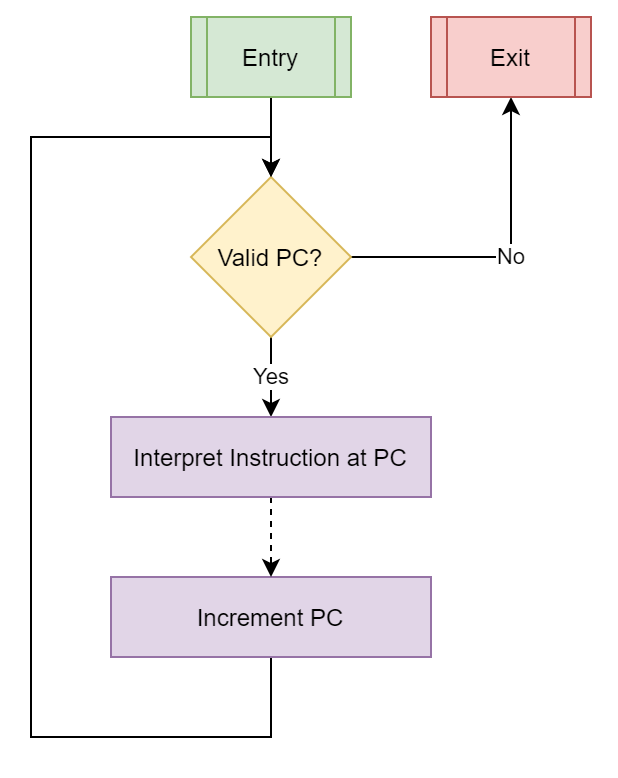
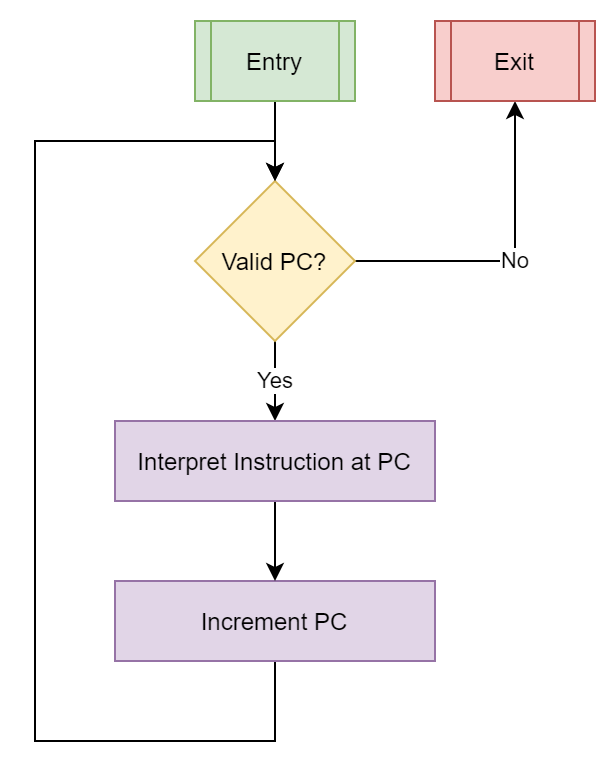
Finished code gen arch

Changed region(s): [[0.0308, 0.0, 0.987, 0.9563], [0.7711, 0.0617, 0.8636, 0.0925], [0.4627, 0.2468, 0.4935, 0.2776]]

diff --git a/sections/implementation/code_generation/architecture.tex b/sections/implementation/code_generation/architecture.tex
@@ -1,3 +1,14 @@
 \subsubsection{Architecture}
 
-\YIComment{Explain different roles of compiler, assembler and allocator}
+The architecture for code generation was split into multiple components to create a compilation pipeline as outlined in \autoref{figure:code-gen-arch}.
+
+\begin{figure}[h]
+    \centering
+    \includegraphics[width=0.25\linewidth]{diagrams/code-gen.png}
+    \caption{Compilation pipeline and architecture for JIT compiling MIPS to x86.}
+    \label{figure:code-gen-arch}
+\end{figure}
+
+The \texttt{Compiler} first translates the MIPS assembly to the appropriate x86 assembly. This is then converted to x86 binary by the \texttt{Assembler}. Finally, the \texttt{Allocator} allocates the appropriate executable memory for the compiled binary, producing an executable block of x86 code.
+
+For increased performance, the \texttt{Compiler} does not actually produce an intermediate stream of x86 assembly; instead it utilises the \texttt{Assembler} to directly produce the correct x86 binary through template functions, largely minimising the runtime overhead.
